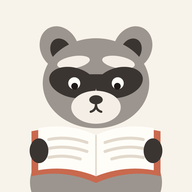
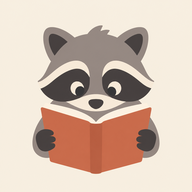
Енот из GPT на иконках и в шапке; многоточие не обрезает название
Иконки приложения, значок вкладки и картинка в шапке теперь из
art/raccoon.png (енот с книгой от GPT); tools/icons.py режет размеры
одним Pillow. Фон приложения — #F7EEE0, как у картинки: иконка
сливается со страницей и экраном запуска. Нарисованный вручную SVG
больше не нужен.

Поиск: «Зулейха... далёкое всё ближе» считалось точным совпадением
с «Зулейха» и обгоняло «Зулейха открывает глаза» — подзаголовок
отрезался по первой точке, в том числе по многоточию. Теперь
разделитель — только одиночная точка, двоеточие или скобка.

diff --git a/site/rank.js b/site/rank.js
@@ -1,8 +1,9 @@
 // Склейка и порядок результатов из разных каталогов. Отдельный модуль без DOM — проверяется в node:test.
 
 export const norm = s => String(s ?? "").toLowerCase().replace(/ё/g, "е").replace(/[^\p{L}\p{N}]+/gu, " ").trim();
-// Основное название: до точки, двоеточия или скобки и без английского артикля в начале.
-const mainTitle = t => norm(String(t).split(/[.:(]/)[0]).replace(/^(the|a|an) /, "");
+// Основное название: до одиночной точки, двоеточия или скобки и без английского артикля в начале.
+// Многоточие — не конец названия: «Зулейха... далёкое всё ближе» не должно стать «Зулейхой».
+const mainTitle = t => norm(String(t).split(/(?<!\.)\.(?!\.)|[:(]/)[0]).replace(/^(the|a|an) /, "");
 // Одна книга из разных каталогов: основное название + фамилия первого автора.
 export const bookKey = b => mainTitle(b.title) + "|" + (norm(b.authors[0]).split(" ").pop() ?? "");
 

diff --git a/site/index.html b/site/index.html
@@ -4,12 +4,12 @@
 <meta charset="utf-8">
 <meta name="viewport" content="width=device-width, initial-scale=1, viewport-fit=cover">
 <meta name="robots" content="noindex">
-<meta name="theme-color" content="#F7F2EA" media="(prefers-color-scheme: light)">
+<meta name="theme-color" content="#F7EEE0" media="(prefers-color-scheme: light)">
 <meta name="theme-color" content="#1E1B19" media="(prefers-color-scheme: dark)">
 <meta name="apple-mobile-web-app-title" content="Полка">
 <title>Книжная полка · проверка поиска</title>
-<link rel="icon" href="icon.svg" type="image/svg+xml">
 <link rel="icon" href="favicon-32.png" type="image/png" sizes="32x32">
+<link rel="icon" href="icon-192.png" type="image/png" sizes="192x192">
 <link rel="apple-touch-icon" href="apple-touch-icon.png">
 <link rel="manifest" href="manifest.webmanifest">
 <link rel="stylesheet" href="style.css">
@@ -18,7 +18,7 @@
 <body>
 <main>
   <header>
-    <img src="icon.svg" alt="">
+    <img src="icon-192.png" alt="">
     <div>
       <h1>Книжная полка</h1>
       <p class="sub">Проверка поиска и связи</p>

diff --git a/site/style.css b/site/style.css
@@ -1,5 +1,5 @@
 :root {
-  --bg: #F7F2EA; --card: #FFFFFF; --fg: #2A2A2A; --muted: #8A8580; --line: #E8E0D4;
+  --bg: #F7EEE0; --card: #FFFFFF; --fg: #2A2A2A; --muted: #8A8580; --line: #E8E0D4;
   --accent: #C9694E; --ok: #4E8A5B; --bad: #C0503A; --star: #D9A62E;
   color-scheme: light dark;
 }

diff --git a/tools/icons.py b/tools/icons.py
@@ -1,54 +1,43 @@
-"""Иконки полки из site/icon.svg: PNG для iPhone, Android и вкладки браузера.
+"""Иконки полки из art/raccoon.png (енот с книгой, 1254x1254, фон #F7EEE0).
 
-Рисует SVG в headless Edge в 1024x1024 и уменьшает Pillow. Для иконок приложения фон без скругления —
-углы скругляет система; для favicon — скруглённый, с прозрачными углами.
+Иконки приложения — весь кадр: енот занимает около 70% по центру, углы iOS и Android скругляют сами.
+Значок вкладки — кадр плотнее (32 px иначе мелко) и со скруглёнными прозрачными углами.
 
     python tools/icons.py
 """
 import pathlib
-import subprocess
-import tempfile
 
-from PIL import Image
+from PIL import Image, ImageDraw
 
 ROOT = pathlib.Path(__file__).resolve().parent.parent
 SITE = ROOT / "site"
-EDGE = r"C:\Program Files (x86)\Microsoft\Edge\Application\msedge.exe"
-BIG = 1024
+SOURCE = ROOT / "art" / "raccoon.png"
+# Рамка содержимого исходника — (212, 166)–(1040, 1134); квадрат вокруг неё с запасом около 4%.
+FAVICON_CROP = (92, 116, 1160, 1184)
 
 
-def render(svg_text: str, tmp: pathlib.Path, name: str) -> Image.Image:
-    (tmp / f"{name}.svg").write_text(svg_text, encoding="utf-8")
-    page = tmp / f"{name}.html"
-    page.write_text(f'<html><body style="margin:0;background:transparent">'
-                    f'<img src="{name}.svg" style="display:block;width:{BIG}px;height:{BIG}px"></body></html>',
-                    encoding="utf-8")
-    shot = tmp / f"{name}.png"
-    subprocess.run([EDGE, "--headless=new", "--disable-gpu", "--hide-scrollbars",
-                    "--default-background-color=00000000", f"--user-data-dir={tmp / 'profile'}",
-                    f"--window-size={BIG},{BIG}", f"--screenshot={shot}", page.as_uri()],
-                   check=True, capture_output=True, timeout=120)
-    img = Image.open(shot).convert("RGBA")
-    if img.size != (BIG, BIG):
-        raise SystemExit(f"Edge отдал {img.size}, ждали {BIG}x{BIG}")
-    return img
+def rounded(img: Image.Image, radius_share: float) -> Image.Image:
+    big = img.convert("RGBA")
+    mask = Image.new("L", big.size, 0)
+    ImageDraw.Draw(mask).rounded_rectangle((0, 0, *big.size), radius=int(big.size[0] * radius_share), fill=255)
+    big.putalpha(mask)
+    return big
 
 
 def main() -> None:
-    svg = (SITE / "icon.svg").read_text(encoding="utf-8")
-    flat = svg.replace('rx="112" fill="#F7F2EA"', 'rx="0" fill="#F7F2EA"')
-    if flat == svg:
-        raise SystemExit("в icon.svg не нашёлся фон с rx=\"112\" — поправь замену в tools/icons.py")
-    with tempfile.TemporaryDirectory() as t:
-        tmp = pathlib.Path(t)
-        square, rounded = render(flat, tmp, "square"), render(svg, tmp, "rounded")
-        for name, img, size in [("apple-touch-icon.png", square, 180), ("icon-192.png", square, 192),
-                                ("icon-512.png", square, 512), ("favicon-32.png", rounded, 32)]:
-            out = img.resize((size, size), Image.LANCZOS)
-            if name != "favicon-32.png":
-                out = out.convert("RGB")
-            out.save(SITE / name, optimize=True)
-            print(f"{name}: {size}x{size}, {(SITE / name).stat().st_size} байт")
+    src = Image.open(SOURCE).convert("RGB")
+    if src.size[0] != src.size[1]:
+        raise SystemExit(f"исходник не квадратный: {src.size}")
+    out = {
+        "apple-touch-icon.png": src.resize((180, 180), Image.LANCZOS),
+        "icon-192.png": src.resize((192, 192), Image.LANCZOS),
+        "icon-512.png": src.resize((512, 512), Image.LANCZOS),
+        # Скругляем в большом размере и уменьшаем — края получаются гладкими.
+        "favicon-32.png": rounded(src.crop(FAVICON_CROP), 0.22).resize((32, 32), Image.LANCZOS),
+    }
+    for name, img in out.items():
+        img.save(SITE / name, optimize=True)
+        print(f"{name}: {img.size[0]}x{img.size[1]}, {(SITE / name).stat().st_size} байт")
 
 
 if __name__ == "__main__":

diff --git a/README.md b/README.md
@@ -5,3 +5,4 @@
 
 Устройство: приложение — GitHub Pages (`site/`), данные и поиск — Cloudflare Worker с D1 и KV (`worker/`).
 Ресурсы Cloudflare создаёт задание `.github/workflows/cloudflare-setup.yml`.
+Иконки — из `art/raccoon.png`: `python tools/icons.py`.
